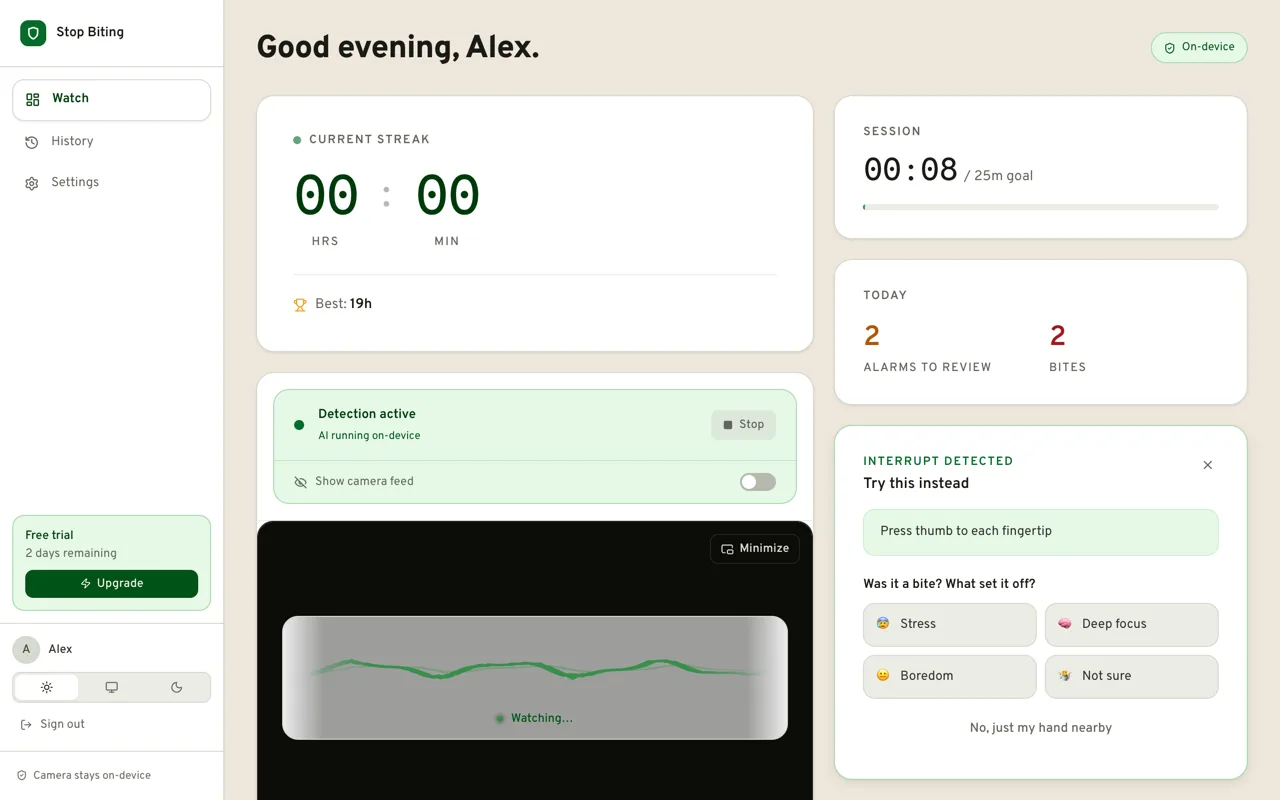
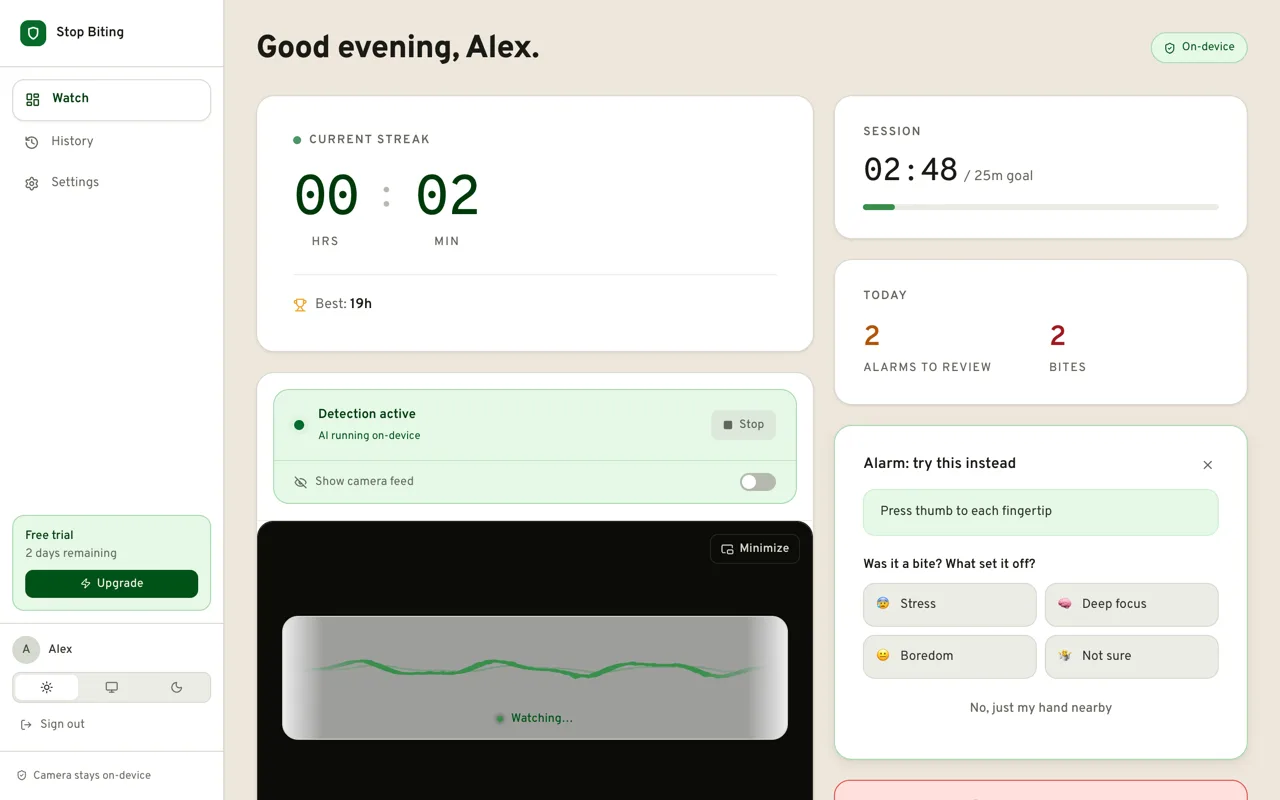
design(loop 10/10): final pass, one vocabulary and one privacy line everywhere
From the final dual review: the onboarding tour stops saying an alarm resets the streak (it does not; a bite does) and uses the History/Alarm/Bite words; the post-alarm card drops its uppercase kicker for a heading 'Alarm: try this instead'; History bite pills start with 'Bite' and use the tag picker's own words ('Deep focus', 'Not sure'); Settings and the camera toggle stop claiming '100% on-device' (only sign-in and payment use the network); /how-it-works lede says about 0.6 seconds and its h1 is sentence case (server.js mirror and HowTo name too); chart tooltip matches the bars; last 11px label to 12px; 'Free trial' casing. Homepage app screenshots recaptured.

diff --git a/src/pages/Log.tsx b/src/pages/Log.tsx
@@ -6,6 +6,7 @@ import { BarChart, Bar, XAxis, YAxis, Tooltip, ResponsiveContainer } from 'recha
 import { subDays, startOfDay, format } from 'date-fns';
 import { PageHeader } from '../components/layout/PageHeader';
 import { SegmentedControl } from '../components/ui/SegmentedControl';
+import { PRESET_TAGS } from '../components/dashboard/triggerTags';
 import type { CustomTag, Incident, StatsMetric } from '../types';
 // One fill for every bar. Colouring bars by count (green, amber, red) meant a
 // quiet day read as "safe" and clashed with the amber/red used for alarms and
@@ -24,19 +25,12 @@ const BITE_TAG_COLOR = 'text-alert-600 dark:text-alert-400 bg-alert-100 dark:bg-
 
 const INCIDENT_TAG_COLOR = 'text-amber-800 dark:text-amber-400 bg-amber-50 dark:bg-amber-900/20 border-amber-300 dark:border-amber-700';
 
-const BITE_TAG_LABELS: Record<string, string> = {
-  'auto-detected': '✓ Bite',
-  'stress': '😰 Stress',
-  'focus': '🧠 Focus',
-  'boredom': '😐 Boredom',
-  'unknown': '🤷 Unknown',
-};
-
+// Every bite pill starts with "Bite", and a tagged one uses the same words as
+// the tag picker (triggerTags.ts): "Deep focus", not "Focus".
 function biteTagLabel(inc: Incident, customTags: CustomTag[]): string {
-  const preset = BITE_TAG_LABELS[inc.tag];
-  if (preset) return preset;
-  const custom = customTags.find(t => t.id === inc.tag);
-  return custom ? `${custom.emoji} ${custom.label}` : '🏷 Other';
+  if (inc.tag === 'auto-detected') return '✓ Bite';
+  const t = [...PRESET_TAGS, ...customTags].find(x => x.id === inc.tag);
+  return t ? `Bite · ${t.emoji} ${t.label}` : 'Bite';
 }
 
 function WeekChart() {
@@ -92,7 +86,7 @@ function WeekChart() {
           <Tooltip
             contentStyle={{ background: tooltipBg, border: `1px solid ${tooltipBorder}`, borderRadius: 8, fontSize: 12 }}
             labelStyle={{ color: tooltipLabel }}
-            itemStyle={{ color: isDark ? '#f87171' : '#dc2626' }}
+            itemStyle={{ color: BAR_FILL[isDark ? 'dark' : 'light'] }}
             cursor={{ fill: isDark ? 'rgba(255,255,255,0.04)' : 'rgba(0,0,0,0.03)' }}
           />
           <Bar dataKey="count" name={weekChartMetric === 'confirmed' ? 'bites' : 'entries'} radius={[4, 4, 0, 0]} fill={BAR_FILL[isDark ? 'dark' : 'light']} />
@@ -166,7 +160,7 @@ export function Log() {
 
           {incidents.length > 0 && (
             <div className="bg-white dark:bg-ink-50 border border-stone-200 dark:border-ink-400 rounded-2xl p-5 shadow-card dark:shadow-card-dark">
-              <h2 className="text-stone-500 dark:text-stone-400 text-[11px] uppercase tracking-widest mb-3 font-semibold">Summary</h2>
+              <h2 className="text-stone-500 dark:text-stone-400 text-xs uppercase tracking-widest mb-3 font-semibold">Summary</h2>
               <div className="space-y-2 text-sm">
                 <div className="flex justify-between">
                   <span className="text-amber-800 dark:text-amber-400">Alarms to review</span>

diff --git a/src/pages/Settings.tsx b/src/pages/Settings.tsx
@@ -295,7 +295,7 @@ function ReasonsSection() {
 // ── Plan section ─────────────────────────────────────────────────────────────
 
 const STATUS_BADGE: Record<string, { label: string; className: string }> = {
-  trial:     { label: 'Free Trial', className: 'bg-amber-100 dark:bg-amber-900/30 text-amber-700 dark:text-amber-400 border border-amber-200 dark:border-amber-700' },
+  trial:     { label: 'Free trial', className: 'bg-amber-100 dark:bg-amber-900/30 text-amber-700 dark:text-amber-400 border border-amber-200 dark:border-amber-700' },
   active:    { label: 'Active',     className: 'bg-forest-100 dark:bg-forest-900/30 text-forest-700 dark:text-forest-400 border border-forest-200 dark:border-forest-700' },
   paused:    { label: 'Paused',     className: 'bg-amber-100 dark:bg-amber-900/30 text-amber-700 dark:text-amber-400 border border-amber-200 dark:border-amber-700' },
   cancelled: { label: 'Cancelled',  className: 'bg-stone-100 dark:bg-ink-300 text-stone-500 dark:text-stone-400 border border-stone-200 dark:border-ink-400' },
@@ -362,7 +362,7 @@ function PlanSection({ onUpgrade }: { onUpgrade?: () => void }) {
             <p className="text-xs text-stone-500 dark:text-stone-400">
               {subscription_status === 'trial' && trial_end_date && (
                 trialDaysLeft > 0
-                  ? `${trialDaysLeft} day${trialDaysLeft !== 1 ? 's' : ''} left in trial — ends ${fmt(trial_end_date)}`
+                  ? `${trialDaysLeft} day${trialDaysLeft !== 1 ? 's' : ''} left in trial, ends ${fmt(trial_end_date)}`
                   : 'Trial has ended'
               )}
               {subscription_status === 'active' && subscription_end_date && `Renews ${fmt(subscription_end_date)}`}
@@ -440,9 +440,9 @@ export function Settings({ onUpgrade }: { onUpgrade?: () => void }) {
         <div className="flex items-start gap-3 bg-forest-50 dark:bg-forest-900/30 border border-forest-200 dark:border-forest-800 rounded-xl p-3">
           <ShieldCheck size={18} className="text-forest-600 dark:text-forest-400 flex-shrink-0 mt-0.5" />
           <div>
-            <p className="text-sm text-forest-800 dark:text-forest-300 font-medium">100% on-device processing</p>
-            <p className="text-xs text-forest-600 dark:text-forest-500 mt-0.5">
-              Your camera feed is processed locally using WebAssembly. No video frames, images, or personal data are ever sent to any server.
+            <p className="text-sm text-forest-800 dark:text-forest-300 font-medium">Detection runs on your computer</p>
+            <p className="text-xs text-forest-700 dark:text-forest-400 mt-0.5">
+              Your camera is processed in this browser. Video never leaves your device; only sign-in and payment use the network.
             </p>
           </div>
         </div>

diff --git a/src/components/onboarding/OnboardingTour.tsx b/src/components/onboarding/OnboardingTour.tsx
@@ -12,31 +12,31 @@ const STEPS: Step[] = [
   {
     target: 'camera-toggle',
     title: 'Detection is already running',
-    body: 'The AI is watching for nail biting in real time using your webcam. Everything processes on-device — nothing is uploaded anywhere.',
+    body: 'Watching for nail biting through your webcam. Everything runs on your device and nothing is uploaded.',
     side: 'bottom',
   },
   {
     target: 'hide-feed',
     title: 'Camera feed stays hidden',
-    body: "Your video isn't shown by default so you can focus on work. The AI detects nail biting either way — toggle the feed on only if you want to see yourself.",
+    body: "Your video stays hidden so you can focus on work. Detection runs either way. Turn the feed on only if you want to see yourself.",
     side: 'bottom',
   },
   {
     target: 'streak-card',
     title: 'Your streak',
-    body: "Counts how long you've gone without a bite. Every hour it grows. When the alarm fires and resets it — that's the feedback loop that builds awareness.",
+    body: "How long you've gone without a bite. An alarm doesn't reset it; a bite you confirm or log does.",
     side: 'left',
   },
   {
     target: 'panic-button',
     title: 'Bit and the alarm missed it?',
-    body: "Log it manually here. Tag the trigger — stress, deep focus, boredom — to find patterns in when it happens.",
+    body: "Log it here and tag what set it off: stress, deep focus, boredom.",
     side: 'top',
   },
   {
     target: 'history-tab',
-    title: 'Track your progress',
-    body: '7-day bite chart, full incident log, and trigger breakdown — patterns usually become obvious within the first week.',
+    title: 'History',
+    body: 'Every alarm and bite by day, with a 7-day chart.',
     side: 'right',
   },
 ];

diff --git a/server.js b/server.js
@@ -2062,7 +2062,7 @@ if (!existsSync(distPath)) {
       '@type': 'FAQPage',
       '@id': 'https://stopbiting.today/how-it-works',
       url: 'https://stopbiting.today/how-it-works',
-      name: 'How AI Nail Biting Detection Works',
+      name: 'How AI nail biting detection works',
       description: 'Stop Biting uses MediaPipe and WebAssembly to detect nail biting in real time — entirely on your device. No cloud, no server, 100% private.',
       isPartOf: { '@id': WEBSITE_ID },
       publisher: { '@id': ORG_ID },
@@ -2085,9 +2085,9 @@ if (!existsSync(distPath)) {
     const faqHtml = HOW_IT_WORKS_FAQS.map(f =>
       `<h3>${escapeHtml(f.q)}</h3><p>${escapeHtml(f.a)}</p>`).join('');
     const article =
-      '<h1>How AI Nail Biting Detection Works</h1>' +
+      '<h1>How AI nail biting detection works</h1>' +
       '<p class="article-summary">Stop Biting uses MediaPipe and WebAssembly to detect nail biting in real time, entirely on your device. ' +
-      'The MediaPipe Hand Landmarker tracks 21 hand landmarks, and the alarm fires under 1 second after it detects your hand approaching your mouth. ' +
+      'The MediaPipe Hand Landmarker tracks 21 hand landmarks, and the alarm fires about 0.6 seconds after it sees your hand approaching your mouth. ' +
       // "under two minutes" stays spelled out: nothing in this page's visible
       // body states a setup time, so the one claim here with no counterpart
       // below does not get made more quotable than the page can support.

diff --git a/src/components/dashboard/ReplacementPrompt.tsx b/src/components/dashboard/ReplacementPrompt.tsx
@@ -45,16 +45,13 @@ export function ReplacementPrompt() {
     <div className="bg-white dark:bg-ink-50 border border-forest-200 dark:border-forest-800 rounded-[18px] p-7 shadow-card-md dark:shadow-card-md-dark animate-fade-up">
       <div className="flex items-start justify-between gap-3 mb-3">
         <div>
-          <p className="text-xs font-semibold tracking-[1.2px] uppercase text-forest-500 dark:text-forest-400">
-            Interrupt detected
-          </p>
-          <p className="text-[15px] font-semibold text-stone-800 dark:text-stone-100 mt-1">
-            Try this instead
-          </p>
+          <h2 className="text-[15px] font-semibold text-stone-800 dark:text-stone-100">
+            Alarm: try this instead
+          </h2>
         </div>
         <button
           onClick={() => answer()}
-          aria-label="Dismiss"
+          aria-label="Dismiss, not a bite"
           className="p-2.5 -m-1.5 rounded-lg text-stone-500 hover:text-stone-600 dark:hover:text-stone-300 hover:bg-stone-100 dark:hover:bg-ink-400 transition-colors"
         >
           <X size={14} />

diff --git a/src/pages/HowItWorks.tsx b/src/pages/HowItWorks.tsx
@@ -90,11 +90,11 @@ export function HowItWorks() {
         </nav>
 
         <header className="max-w-3xl">
-          <h1 className="sg-h2">How AI Nail Biting Detection Works</h1>
+          <h1 className="sg-h2">How AI nail biting detection works</h1>
           <p className="sg-lede sg-measure mt-5">
             Stop Biting uses MediaPipe and WebAssembly to detect nail biting in real time, entirely on your
-            device. The MediaPipe Hand Landmarker tracks 21 hand landmarks, and the alarm fires under 1 second
-            after it detects your hand approaching your mouth. Setup takes under two minutes.
+            device. The MediaPipe Hand Landmarker tracks 21 hand landmarks, and the alarm fires about 0.6 seconds
+            after it sees your hand approaching your mouth. Setup takes under two minutes.
           </p>
         </header>
 

diff --git a/src/components/dashboard/CameraToggle.tsx b/src/components/dashboard/CameraToggle.tsx
@@ -36,7 +36,7 @@ export function CameraToggle({ cameraProblem = false }: { cameraProblem?: boolea
           </p>
           <div className="flex items-center gap-1.5 mt-1.5" style={{ color: 'oklch(100% 0 0 / 0.65)' }}>
             <ShieldCheck size={12} />
-            <span className="text-[12px]">100% on-device — no data sent</span>
+            <span className="text-[12px]">Video stays on this device</span>
           </div>
         </div>
 

diff --git a/tasks/design-loop.md b/tasks/design-loop.md
@@ -1,14 +1,14 @@
 # Design loop (10 iterations, every 5 min)
 
-iterations: 9
+iterations: 10
 
 ## Log
 - 1/10: grid alignment (History, Why this exists, privacy 2-col), hero demo column de-duplicated, contact form gap + voice
 
 ## Backlog (from the loop-4 reviews; one per iteration, top first)
-- 10: Final dual review pass of everything; fix what remains (candidate: mobile-specific hero screenshot).
 - 5/10: History: aligned tags, Alarm/Bite vocabulary, title History, single-colour chart with text summary; homepage shot updated
 - 6/10: app AA pass: bigger/darker labels, amber to AA, focus ring, aria-current, theme moved to Settings, 44px Clear all
 - 7/10: app on Overpass/Overpass Mono, eyebrows removed, plain page titles, homepage app shots recaptured
 - 8/10: paywall matches /pricing: shared features, no Pro tier, honest privacy line, clean success state
 - 9/10: pricing/how-it-works copy aligned with cards and the app (latency, competing response, privacy); server mirrors updated
+- 10/10: final pass: tour copy truthful, Alarm card heading, Bite · trigger pills, honest privacy line in Settings, how-it-works latency + sentence case
